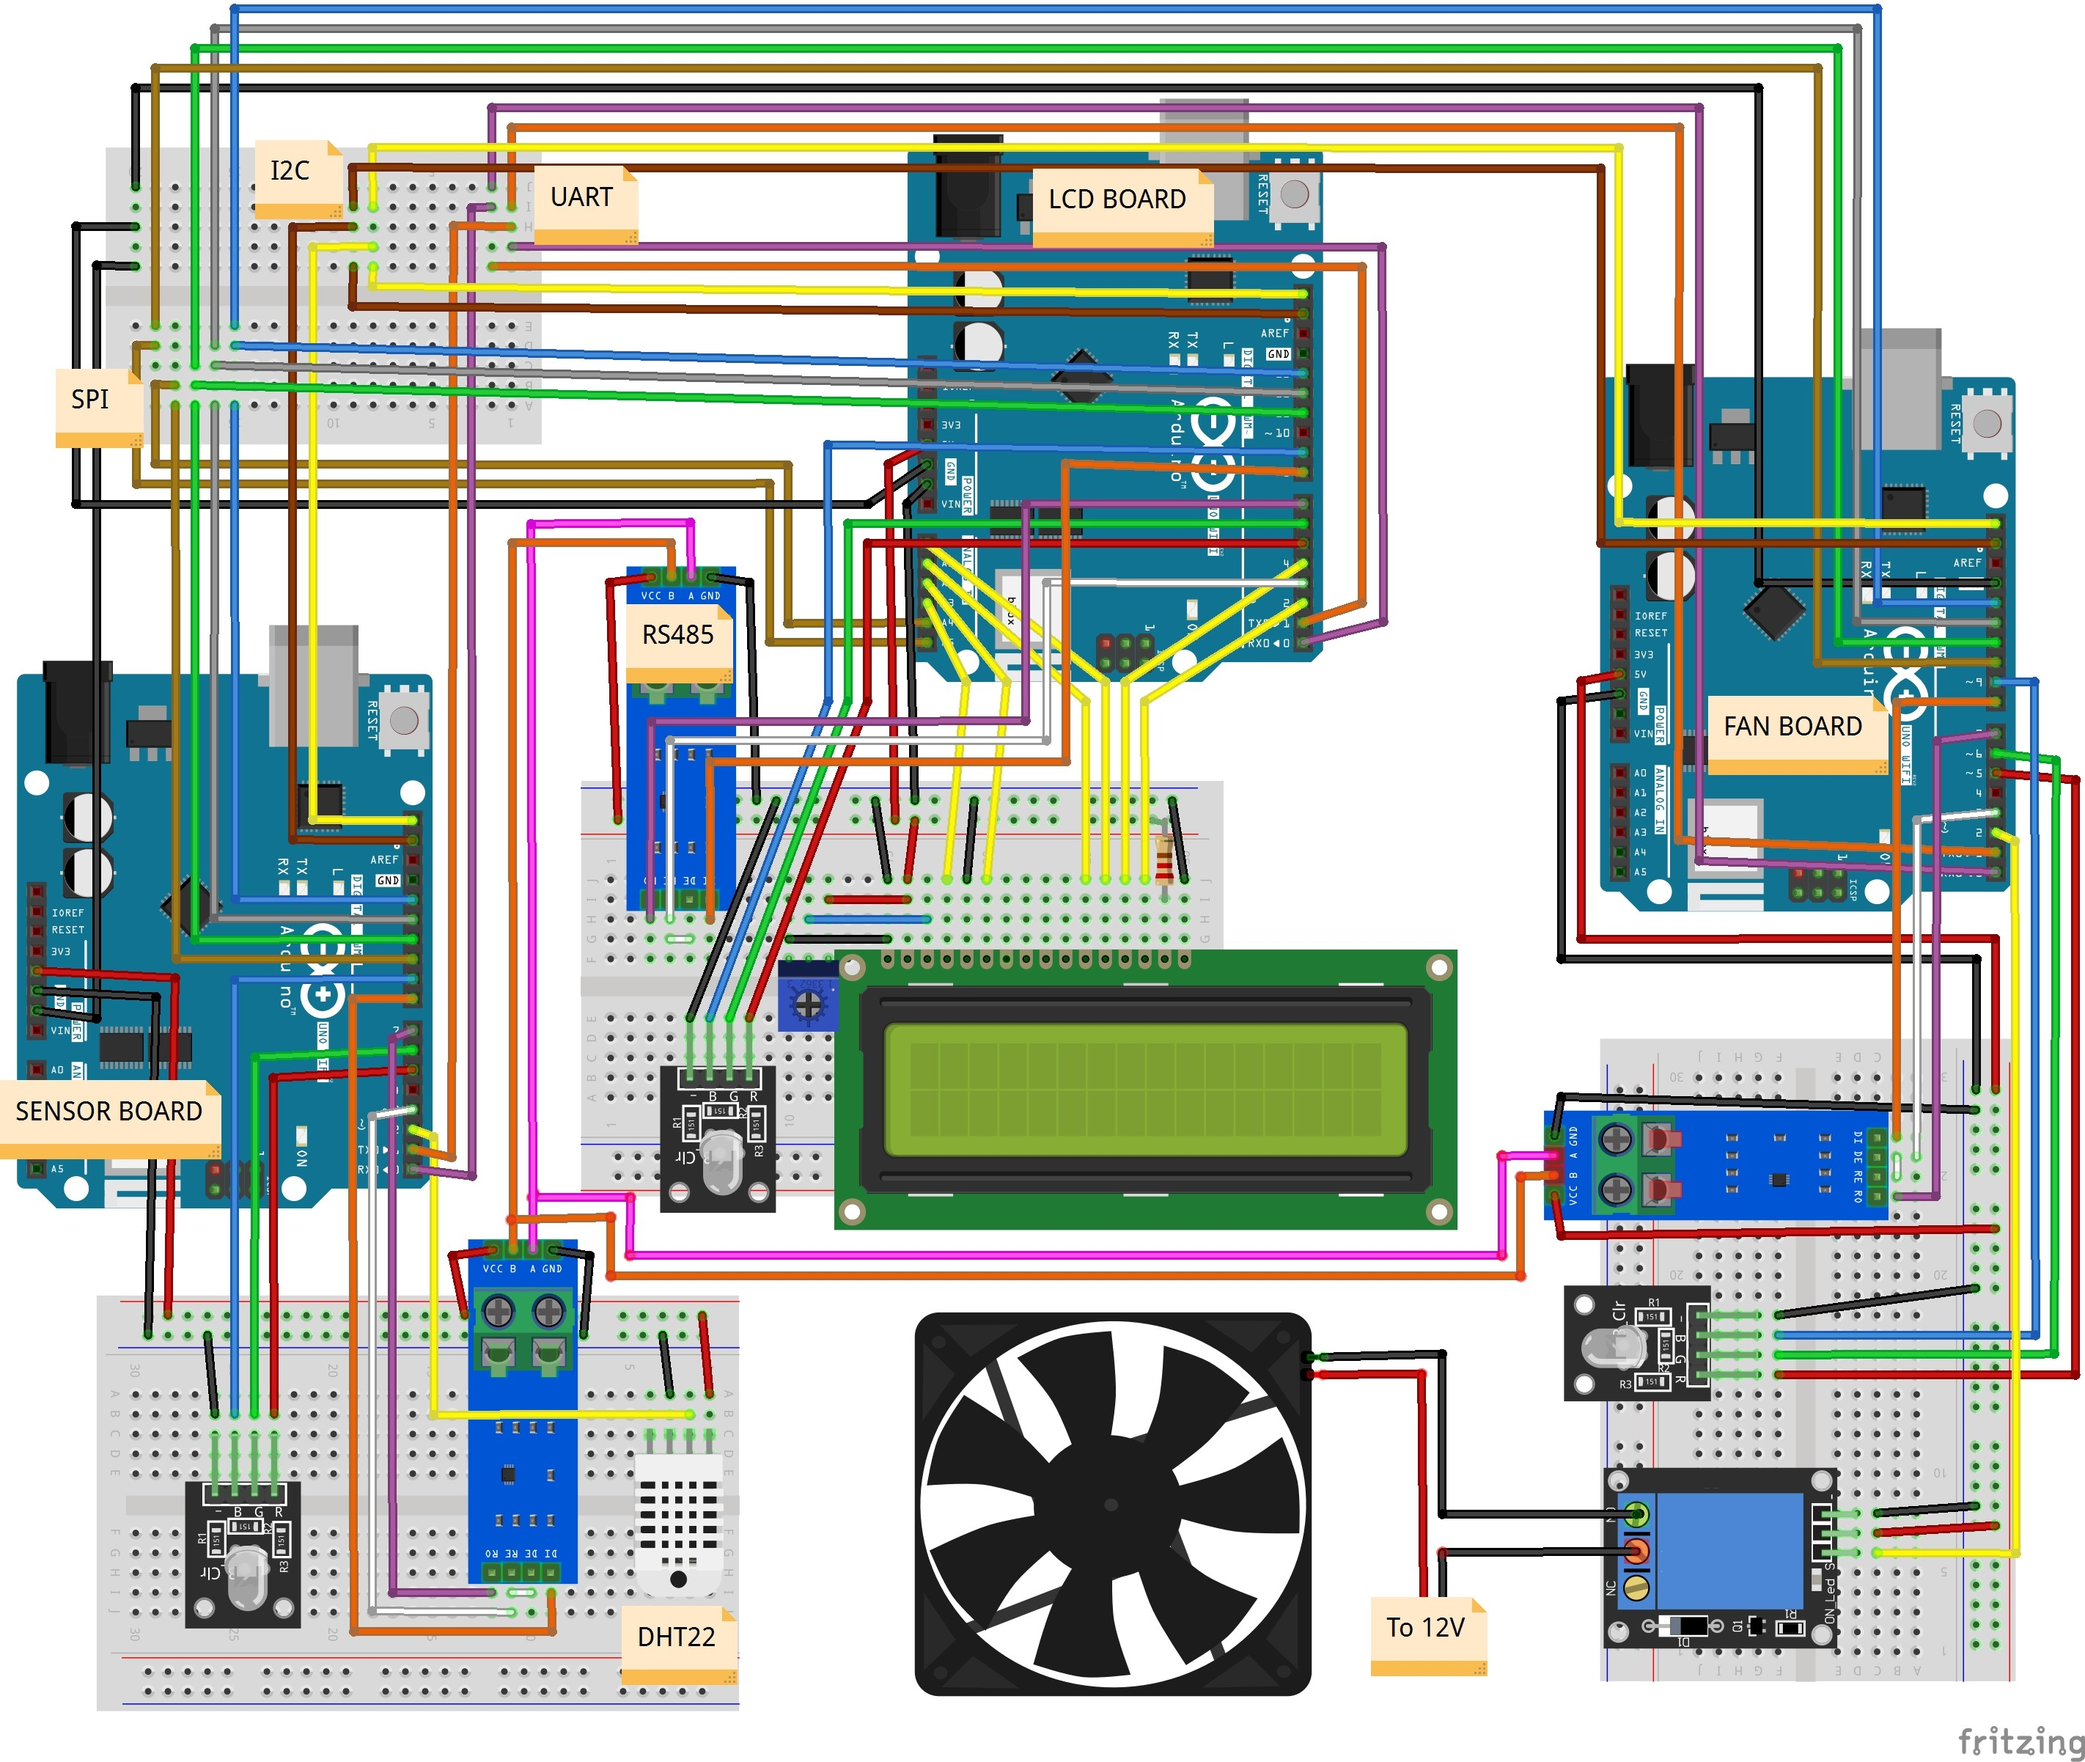
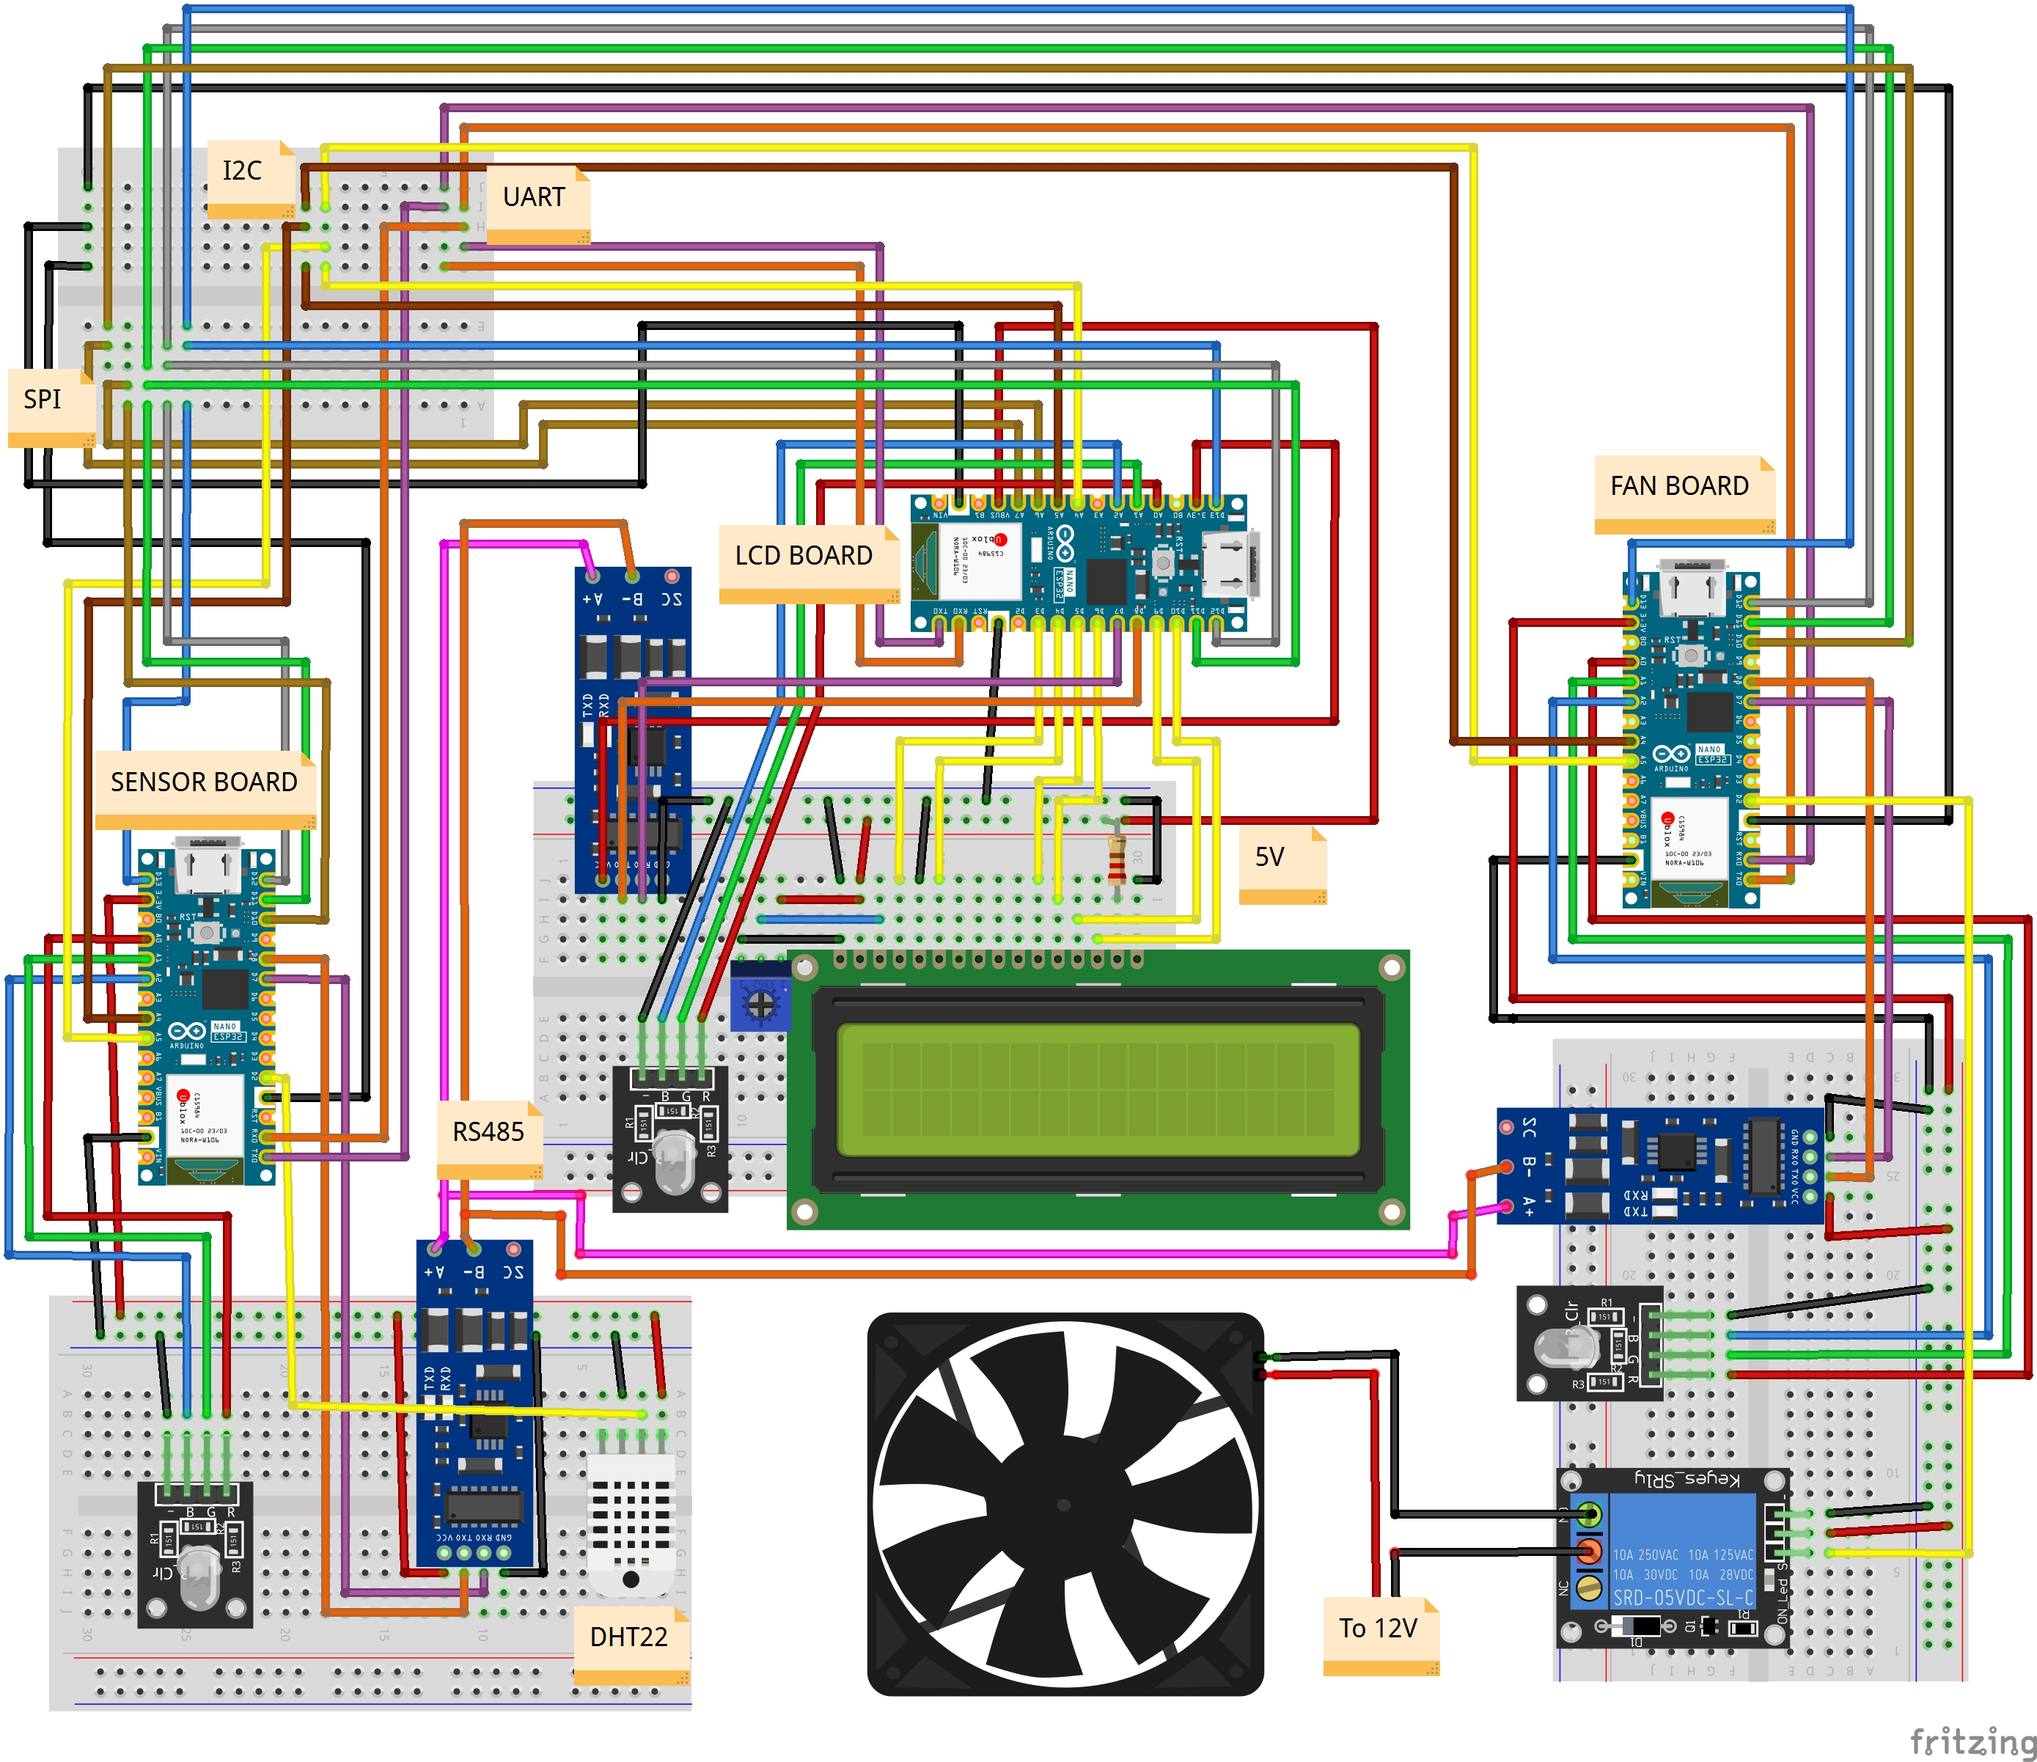
Upgrade files for Arduino Nano ESP32

diff --git a/in4labs_cybersecurity_app/__init__.py b/in4labs_cybersecurity_app/__init__.py
@@ -26,22 +26,24 @@ boards = {
     'Board_1':{
         'name':'LCD',
         'role':'Master',
-        'model':'Arduino Uno WiFi Rev2',
-        'fqbn':'arduino:megaavr:uno2018',
+        #'model':'Arduino Uno WiFi Rev2',
+        #'fqbn':'arduino:megaavr:uno2018',
+        'model':'Arduino Nano ESP32',
+        'fqbn':'arduino:esp32:nano_nora',
         'usb_port':'2',
     },
     'Board_2':{
         'name':'Sensor',
         'role':'Slave',
-        'model':'Arduino Uno WiFi Rev2',
-        'fqbn':'arduino:megaavr:uno2018',
+        'model':'Arduino Nano ESP32',
+        'fqbn':'arduino:esp32:nano_nora',
         'usb_port':'1',
     },
     'Board_3':{
         'name':'Fan',
         'role':'Slave',
-        'model':'Arduino Uno WiFi Rev2',
-        'fqbn':'arduino:megaavr:uno2018',
+        'model':'Arduino Nano ESP32',
+        'fqbn':'arduino:esp32:nano_nora',
         'usb_port':'3',
     }
 }
@@ -152,37 +154,48 @@ def execute():
     return resp
 
 def load_sketch(board, target):
-    if (target == 'user'): 
-        input_file = os.path.join(app.instance_path, 'compilations', board, 'build','temp_sketch.ino.hex')
-    else: # target == 'stop'
-        input_file = os.path.join(app.instance_path, 'compilations', 'precompiled','stop.ino.hex')
+    if boards[board]['model'] == 'Arduino Nano ESP32':
+        if (target == 'user'): 
+            input_file = os.path.join(app.instance_path, 'compilations', board, 'build', 'temp_sketch.ino.bin')
+        else: # target == 'stop'
+            input_file = os.path.join(app.instance_path, 'compilations', 'precompiled','stop.ino.bin')
 
-    # NOTE: Arduino-cli uses AVRdude to upload the code and it does not work properly if -Pusb flag is used with 
-    #       the usb interface of the board, so we use the last two digits of the serial number instead.
-    serial_number = boards[board]['serial_number'][-2:]
+        dfu_util = os.path.join('/', 'root', '.arduino15', 'packages', 'arduino',
+                                    'tools', 'dfu-util', '0.11.0-arduino5', 'dfu-util')
+        serial_number = boards[board]['serial_number']
 
-    avrdude_path = os.path.join('/', 'root', '.arduino15', 'packages', 'arduino',
-                                 'tools', 'avrdude', '6.3.0-arduino17', 'bin', 'avrdude')
-    avrdude_conf_path = os.path.join('/', 'root', '.arduino15', 'packages', 'arduino', 
-                                     'tools', 'avrdude', '6.3.0-arduino17', 'etc', 'avrdude.conf')
-    avrdude_partno = 'atmega4809'
-    avrdude_programer_id = 'xplainedmini_updi'
-    avrdude_usb_port = '-Pusb:'+ serial_number
-    avrdude_baudrate = '115200'
-    avrdude_sketch =  '-Uflash:w:'+ input_file +':i'
-    avrdude_fuse_2 = '-Ufuse2:w:0x01:m'
-    avrdude_fuse_5 = '-Ufuse5:w:0xC9:m'
-    avrdude_fuse_8 = '-Ufuse8:w:0x02:m'
-    avrdude_boot = os.path.join('/', 'root', '.arduino15', 'packages', 'arduino',
-                                 'hardware', 'megaavr', '1.8.8', 'bootloaders', 'atmega4809_uart_bl.hex:i')
+        command = [dfu_util, '--serial', serial_number, '-D', input_file, '-Q']
 
-    command = [avrdude_path, '-C', avrdude_conf_path, '-V', '-p', avrdude_partno, '-c', avrdude_programer_id, 
-               avrdude_usb_port, '-b', avrdude_baudrate, '-e', '-D', avrdude_sketch, avrdude_fuse_2, 
-               avrdude_fuse_5, avrdude_fuse_8, avrdude_boot]
+    elif boards[board]['model'] == 'Arduino Uno WiFi Rev2':
+        # NOTE: Arduino-cli uses AVRdude to upload the code and it does not work properly if -Pusb flag is used with 
+        #       the usb interface of the board, so we use the last two digits of the serial number instead.
+        if (target == 'user'): 
+            input_file = os.path.join(app.instance_path, 'compilations', board, 'build', 'temp_sketch.ino.hex')
+        else: # target == 'stop'
+            input_file = os.path.join(app.instance_path, 'compilations', 'precompiled','stop.ino.hex')
+
+        serial_number = boards[board]['serial_number'][-2:]
+        avrdude_path = os.path.join('/', 'root', '.arduino15', 'packages', 'arduino',
+                                    'tools', 'avrdude', '6.3.0-arduino17', 'bin', 'avrdude')
+        avrdude_conf_path = os.path.join('/', 'root', '.arduino15', 'packages', 'arduino', 
+                                        'tools', 'avrdude', '6.3.0-arduino17', 'etc', 'avrdude.conf')
+        avrdude_partno = 'atmega4809'
+        avrdude_programer_id = 'xplainedmini_updi'
+        avrdude_usb_port = '-Pusb:'+ serial_number
+        avrdude_baudrate = '115200'
+        avrdude_sketch =  '-Uflash:w:'+ input_file +':i'
+        avrdude_fuse_2 = '-Ufuse2:w:0x01:m'
+        avrdude_fuse_5 = '-Ufuse5:w:0xC9:m'
+        avrdude_fuse_8 = '-Ufuse8:w:0x02:m'
+        avrdude_boot = os.path.join('/', 'root', '.arduino15', 'packages', 'arduino',
+                                    'hardware', 'megaavr', '1.8.8', 'bootloaders', 'atmega4809_uart_bl.hex:i')
+
+        command = [avrdude_path, '-C', avrdude_conf_path, '-V', '-p', avrdude_partno, '-c', avrdude_programer_id, 
+                avrdude_usb_port, '-b', avrdude_baudrate, '-e', '-D', avrdude_sketch, avrdude_fuse_2, 
+                avrdude_fuse_5, avrdude_fuse_8, avrdude_boot]
 
     result = subprocess.run(command, capture_output=True, text=True) 
     print(result) # Debug info
-
 
 @app.route('/monitor', methods=['GET'])
 @login_required
@@ -242,4 +255,3 @@ def reset():
     # Return the output of the command for debugging purposes
     resp = jsonify(result=result.stdout)
     return resp
-
